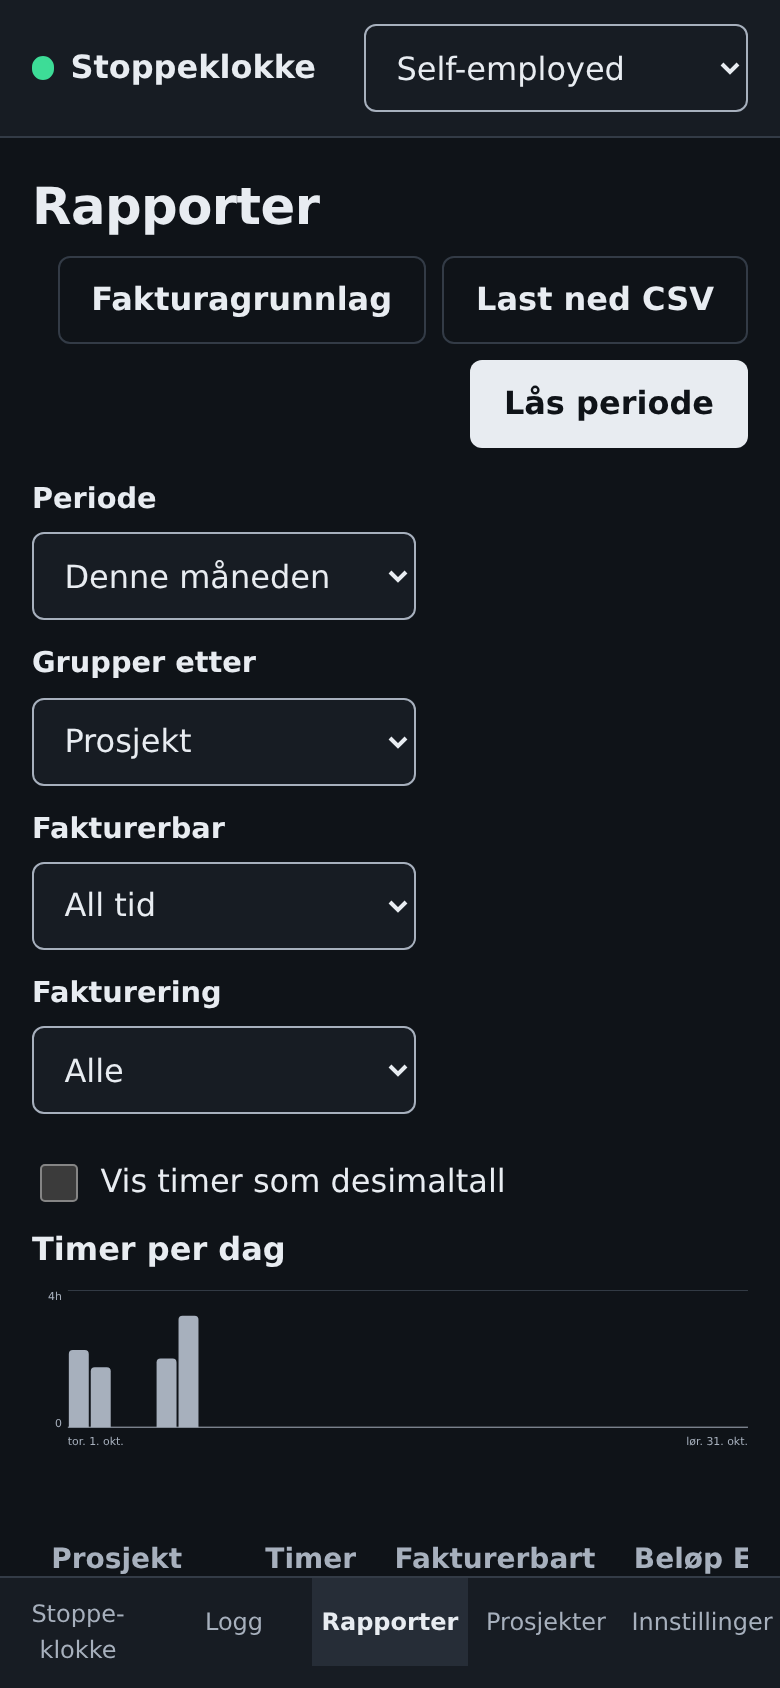
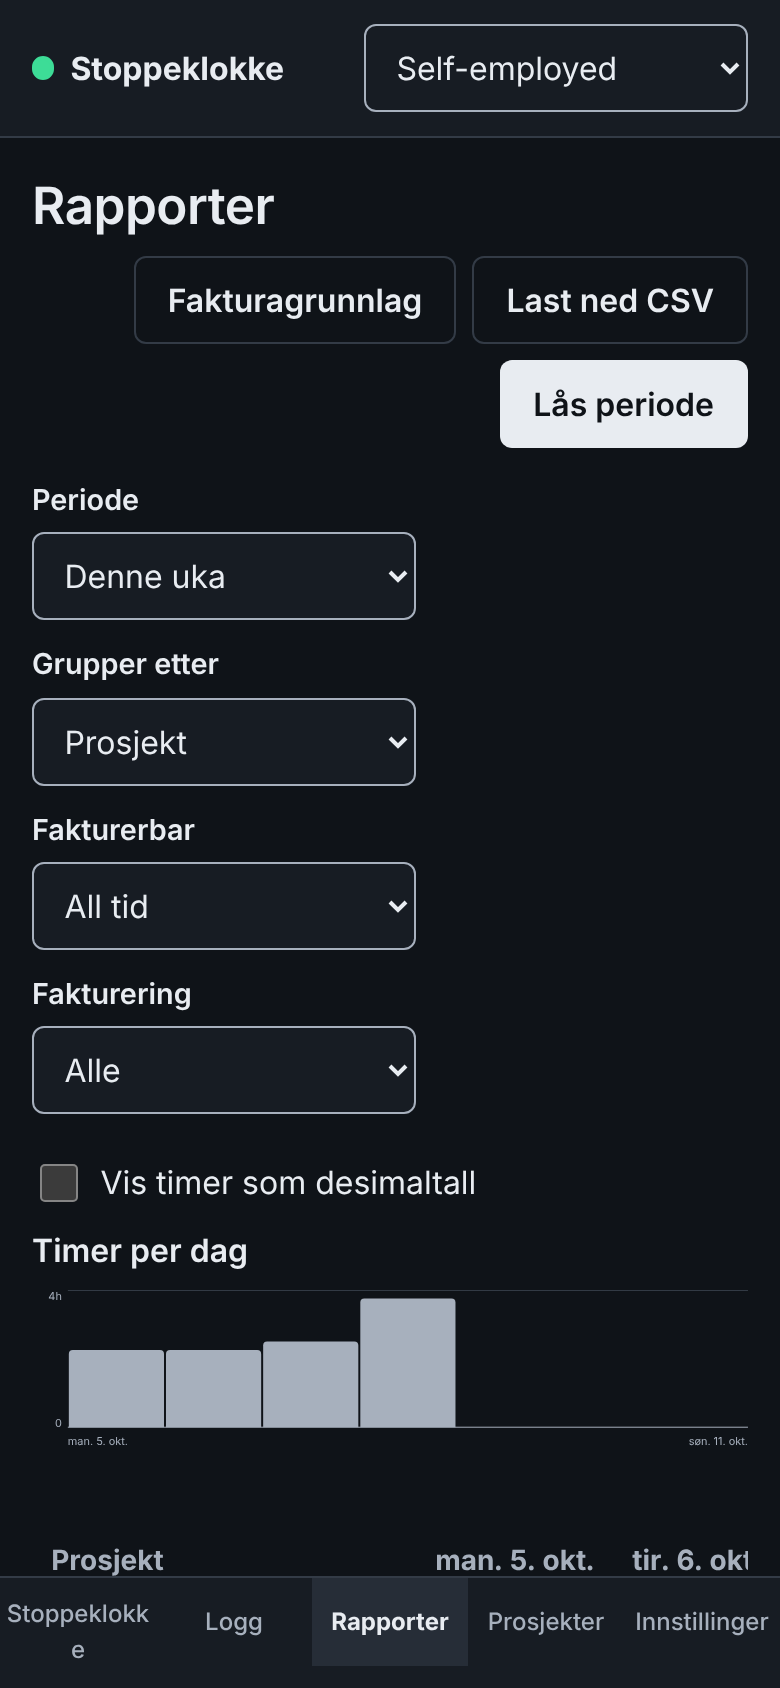
feat(reports): show hours per day as columns for periods of up to a week
Grouped by workspace, client or project, a report covering at most seven
days gets one column per day (split at midnight like the chart) and
per-day totals, timesheet style. The summary API adds a sparse per-day
breakdown to each of those groups.

Claude-Session: https://claude.ai/code/session_0187fj5hxjweAiy6ZHfqgGuD

diff --git a/src/web/screens/Reports.tsx b/src/web/screens/Reports.tsx
@@ -34,7 +34,12 @@ interface Totals {
   count: number;
 }
 interface Summary {
-  groups: (Totals & { key: string; id: number | null; workspace_id: number | null })[];
+  groups: (Totals & {
+    key: string;
+    id: number | null;
+    workspace_id: number | null;
+    days?: Record<string, number>;
+  })[];
   totals: Totals;
   days: { date: string; seconds: number }[];
   has_amounts: boolean;
@@ -101,6 +106,12 @@ export function ReportsScreen() {
   const currencies = data ? Object.keys(data.totals.amounts).sort() : [];
   const showAmounts = !!data?.has_amounts && currencies.length > 0;
   const showWorkspace = multiWorkspace.value && workspaceId === null;
+  // Timesheet columns (one per day) for periods of at most a week, when the
+  // rows are workspaces/clients/projects rather than time buckets.
+  const dayCols =
+    data && data.days.length <= 7 && ['workspace', 'client', 'project'].includes(groupBy)
+      ? data.days.map((d) => d.date)
+      : [];
 
   return (
     <div class="reports stack">
@@ -222,12 +233,17 @@ export function ReportsScreen() {
         <>
           <DayChart days={data.days} />
           <div class="table-wrap">
-            <table class="report-table">
+            <table class={`report-table${dayCols.length ? ' timesheet' : ''}`}>
               <thead>
                 <tr>
                   <th scope="col">
                     {t(`reports.by${groupBy[0]!.toUpperCase()}${groupBy.slice(1)}`)}
                   </th>
+                  {dayCols.map((d) => (
+                    <th scope="col" class="num" key={d}>
+                      {formatCalendarDate(d, loc)}
+                    </th>
+                  ))}
                   <th scope="col" class="num">
                     {t('reports.hours')}
                   </th>
@@ -246,6 +262,11 @@ export function ReportsScreen() {
                 {data.groups.map((g) => (
                   <tr key={g.key}>
                     <th scope="row">{label(g)}</th>
+                    {dayCols.map((d) => (
+                      <td class="num" key={d}>
+                        {g.days?.[d] ? dur(g.days[d]) : ''}
+                      </td>
+                    ))}
                     <td class="num">{dur(g.seconds)}</td>
                     <td class="num">{dur(g.billable_seconds)}</td>
                     {showAmounts &&
@@ -260,6 +281,13 @@ export function ReportsScreen() {
               <tfoot>
                 <tr>
                   <th scope="row">{t('reports.total')}</th>
+                  {data.days
+                    .filter((d) => dayCols.includes(d.date))
+                    .map((d) => (
+                      <td class="num" key={d.date}>
+                        {d.seconds ? dur(d.seconds) : ''}
+                      </td>
+                    ))}
                   <td class="num">{dur(data.totals.seconds)}</td>
                   <td class="num">{dur(data.totals.billable_seconds)}</td>
                   {showAmounts &&

diff --git a/test/core-reports.test.ts b/test/core-reports.test.ts
@@ -69,6 +69,27 @@ describe('aggregate', () => {
     expect(r.days.find((d) => d.date === '2026-09-11')?.seconds).toBe(2.5 * 3600);
   });
 
+  it('breaks project groups down per day, split at midnight', () => {
+    const priced = priceEntries(
+      [
+        entry(at(10, 22), at(11, 2, 30), { project_id: 7 }),
+        entry(at(11, 9), at(11, 10), { project_id: 7 }),
+        entry(at(12, 9), at(12, 9, 30), { project_id: 8 }),
+      ],
+      lookup(),
+      new Map(),
+    );
+    const r = aggregate(priced, 'project', { from: '2026-09-07', to: '2026-09-13', tz: TZ });
+    const byId = new Map(r.groups.map((g) => [g.id, g]));
+    expect(byId.get(7)!.days).toEqual({ '2026-09-10': 2 * 3600, '2026-09-11': 3.5 * 3600 });
+    expect(byId.get(8)!.days).toEqual({ '2026-09-12': 1800 });
+    for (const g of r.groups)
+      expect(Object.values(g.days!).reduce((a, s) => a + s, 0)).toBe(g.seconds);
+    expect(
+      aggregate(priced, 'day', { from: '2026-09-07', to: '2026-09-13', tz: TZ }).groups[0]!.days,
+    ).toBeUndefined();
+  });
+
   it('keeps the part after midnight of the last day on its real date', () => {
     const priced = priceEntries(
       [entry(at(30, 23), zonedToEpoch(2026, 10, 1, 1, 0, TZ))],

diff --git a/src/core/reports/aggregate.ts b/src/core/reports/aggregate.ts
@@ -42,6 +42,12 @@ export interface Group extends Totals {
   /** Workspace/client/project id for those groupings (null = uncategorised). */
   id: number | null;
   workspace_id: number | null;
+  /**
+   * Workspace/client/project groupings only: seconds per calendar day in the
+   * range (sparse, split at midnight like `Report.days`). A piece running
+   * past midnight after the last day counts in `seconds` but in no day.
+   */
+  days?: Record<string, number>;
 }
 
 export interface Report {
@@ -211,6 +217,10 @@ export function aggregate(
       );
       add(g, re.seconds, billable, re.amount, re.currency);
       g.count++;
+      g.days ??= {};
+      const days = g.days;
+      for (const p of pieces)
+        if (perDay.has(p.date)) days[p.date] = (days[p.date] ?? 0) + p.seconds;
     } else {
       const seen = new Set<string>();
       for (const p of pieces) {

diff --git a/test/reports.test.ts b/test/reports.test.ts
@@ -55,6 +55,7 @@ describe('summary report', () => {
     expect(byClient[euro.id]).toMatchObject({ seconds: 2 * HOUR, amounts: { EUR: 20000 } });
     expect(r.totals.amounts).toEqual({ NOK: 240000, EUR: 20000 });
     expect(r.days).toHaveLength(30);
+    expect(byClient[acme.id].days).toEqual({ '2026-09-01': 45 * 60, '2026-09-02': 75 * 60 });
   });
 
   it('hides amounts when no rate exists anywhere; non-billable counts hours only', async () => {

diff --git a/src/modules/reports/index.ts b/src/modules/reports/index.ts
@@ -43,6 +43,7 @@ const Summary = z.object({
       key: z.string(),
       id: z.number().nullable(),
       workspace_id: z.number().nullable(),
+      days: z.record(z.string(), z.number()).optional(),
     }),
   ),
   totals: Totals,

diff --git a/src/web/styles.css b/src/web/styles.css
@@ -937,6 +937,9 @@ progress.bar.small {
   text-align: end;
   white-space: nowrap;
 }
+.report-table.timesheet tbody th {
+  min-width: 12rem;
+}
 .report-table.muted {
   color: var(--steel);
 }

diff --git a/SPEC.md b/SPEC.md
@@ -400,7 +400,7 @@ GET    /api/openapi.json
 1. **Timer (home):** Big start/stop button; the running entry's project, description and start time are editable in place while it runs, client/project picker (searchable, recently used first), description field with autocomplete. Running time ticks locally (computed from `start_at`, not polled). Below: today's entries grouped, with the daily total and progress towards `daily_target_min` (total, plus per-workspace bars when more than one workspace has a target). "Continue" button per entry.
    **Autocomplete:** suggestions ranked by recency and frequency over the last 90 days, scoped to the selected project first, then global. Picking a suggestion also selects the client/project last used with that description if none is selected. Debounced 150 ms; max 10 results; case-insensitive prefix match first, then substring.
 2. **Log:** Week view, entries per day, inline editing of time/description/project. Manual entry ("+ add") with start/end or start/duration. Padlock icon on period-locked entries (read-only) and a separate icon for rate locks (tooltip with the frozen rate). Multi-select for rate lock/release.
-3. **Reports:** Workspace filter (active / specific / all); with "all" the default grouping is by workspace. Period picker (this week, last week, this month, last month, this year, custom); defaults to this week. Group by client/project/day/week/month. Shows hours, billable hours, amount per currency. Filter "locked / unlocked / all" (unlocked = "not invoiced yet"). "Lock period" button using the current period and filters as the starting point. List of period locks with notes and unlock. Simple per-day bar chart (inline SVG, no chart library). CSV export.
+3. **Reports:** Workspace filter (active / specific / all); with "all" the default grouping is by workspace. Period picker (this week, last week, this month, last month, this year, custom); defaults to this week. Group by client/project/day/week/month. Shows hours, billable hours, amount per currency; for a period of at most 7 days grouped by workspace/client/project, the table also has one column per day (timesheet view, midnight-split like the chart) with per-day totals. Filter "locked / unlocked / all" (unlocked = "not invoiced yet"). "Lock period" button using the current period and filters as the starting point. List of period locks with notes and unlock. Simple per-day bar chart (inline SVG, no chart library). CSV export.
 4. **Workspaces, clients and projects:** CRUD for all three (workspaces section only shown with more than one, plus an "Add workspace" button), moving clients between workspaces, colours, rates (with inherited placeholder), notification overrides, archiving.
 5. **Settings:** All settings from §4.3 (time zone/language/currency/clock format at the top), passkeys, push subscriptions per device (+ test button), API tokens, webhooks, data export/import, log out everywhere.
 6. **Footer (every page, including login):** "Stoppeklokke vX.Y.Z · Source code (AGPL-3.0)" linking to `SOURCE_URL`. Version and git SHA are baked in at build time.

diff --git a/docs/user-guide.md b/docs/user-guide.md
@@ -103,6 +103,7 @@ You can choose a fixed answer under **Settings → When a rate changes**. The ru
 ![Report for last month grouped by client, with a bar chart of hours per day and totals per currency](screenshots/08-reports.png)
 
 - Choose a period (this/last week, this/last month, this year or custom; default: this week), a grouping (client, project, day, week, month, or workspace) and filters for billable time and invoicing status (**Not invoiced yet** shows unlocked time only).
+- For a week or shorter, grouped by client, project or workspace, the table shows **one column per day** with daily totals at the bottom, like a timesheet.
 - Hours are rounded **per entry** before summing, using the rounding in Settings (or the workspace). Your raw data never changes. Locked periods keep the rounding they were locked with.
 - Amounts are totalled **per currency**. Different currencies are never added or converted.
 - An entry that crosses midnight is split between the two days.
